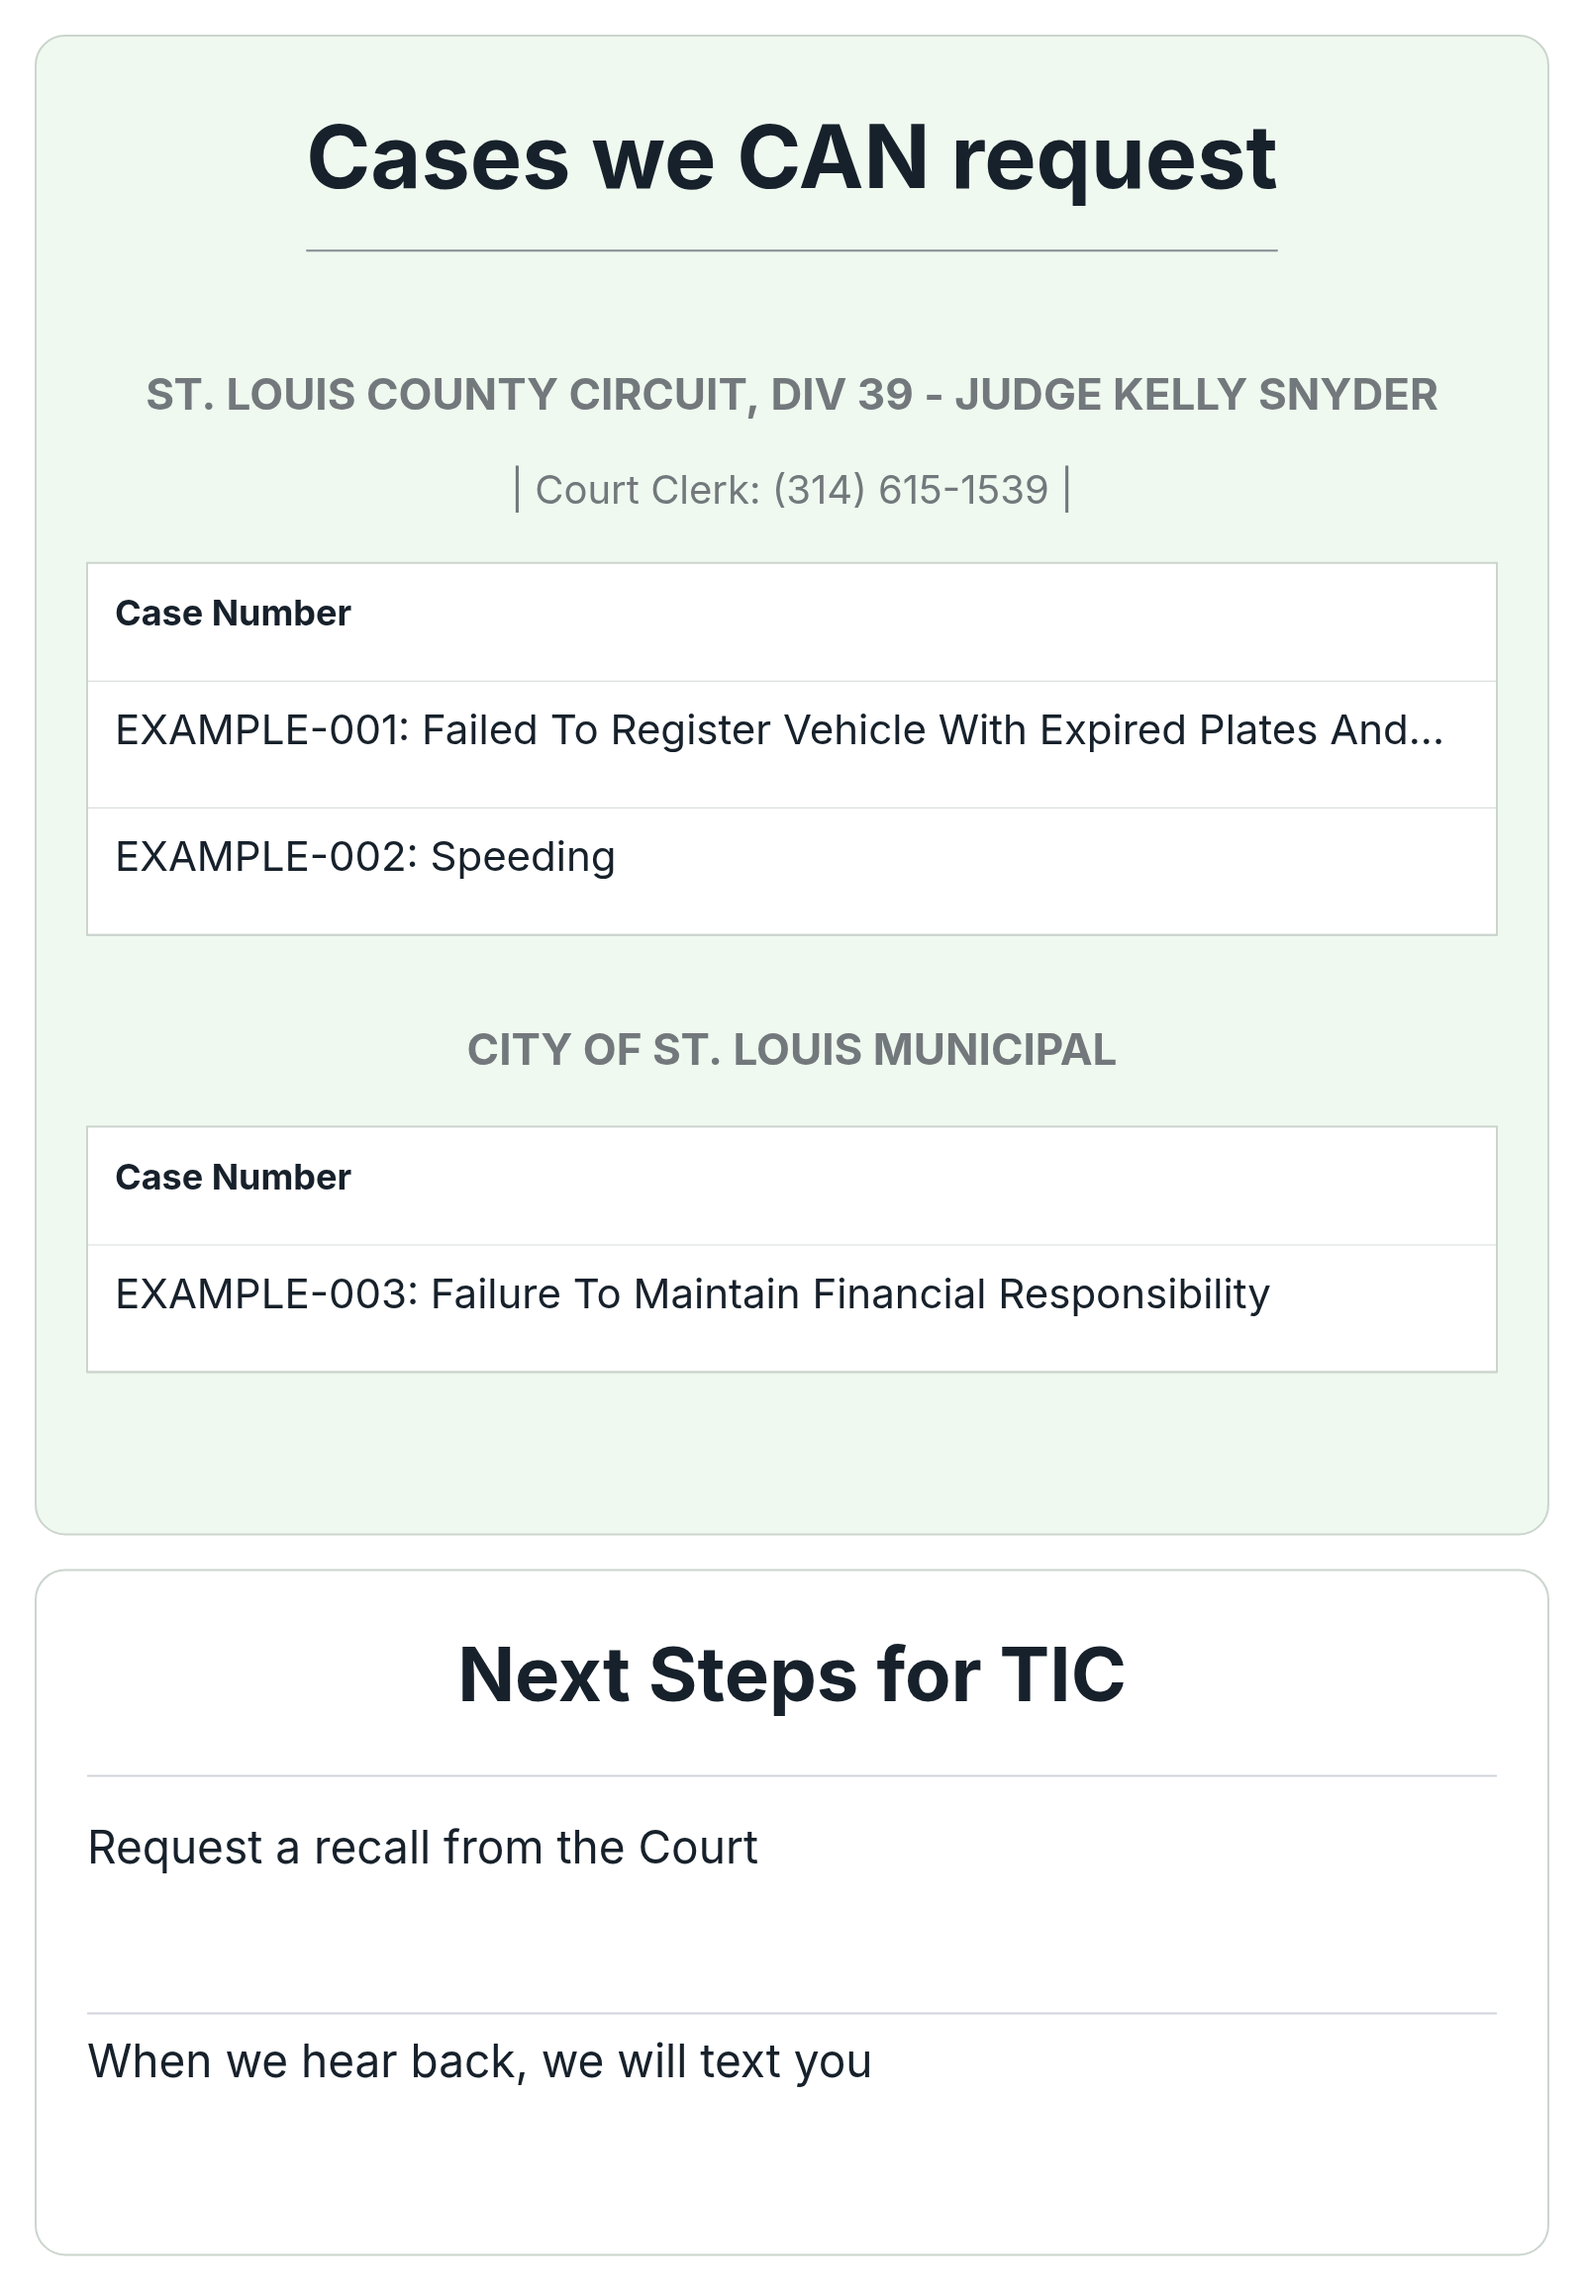
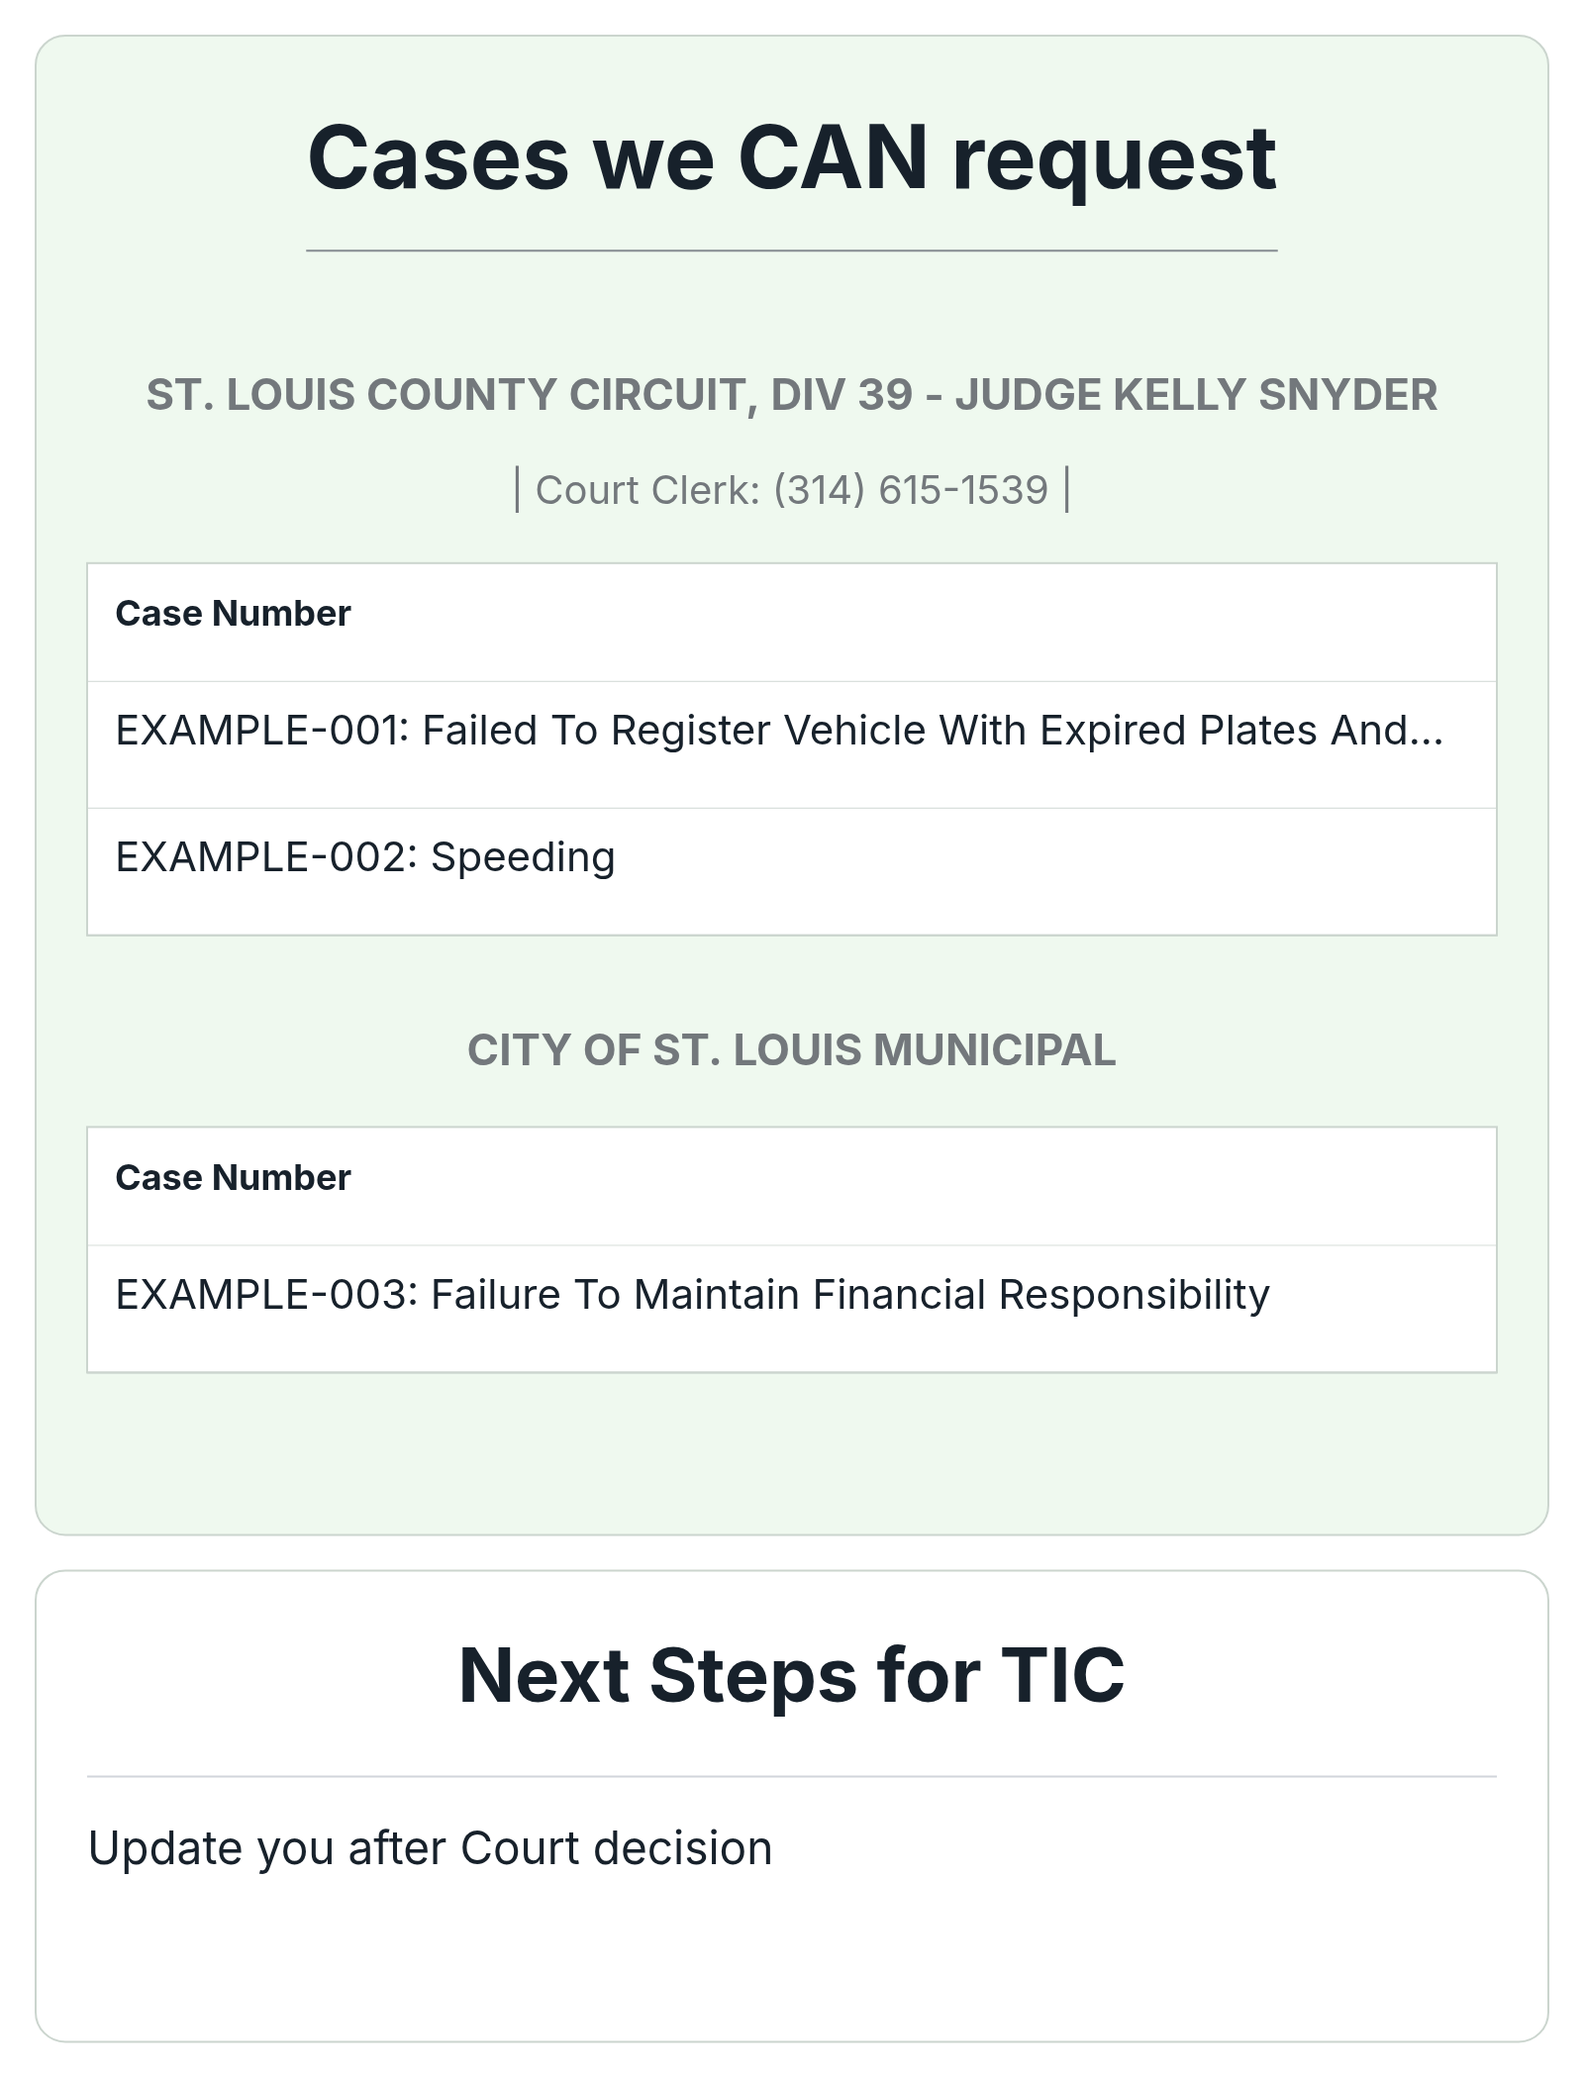
Use one editable TIC next-step default

diff --git a/src/tampermonkey/17a-constructed-infographics.js b/src/tampermonkey/17a-constructed-infographics.js
@@ -184,8 +184,7 @@ function textBuilderInfographicModel(source,measure) {
   y = model.caseBottom + 54;
   add(source.type === 'eligible' ? 'Next Steps for TIC' : 'Next Steps for You',38,true,'stepsHeading');
   if (source.type === 'eligible') {
-    add('Request a recall from the Court',23,false,'step');
-    add('When we hear back, we will text you',23,false,'step');
+    add('Update you after Court decision',23,false,'step');
   } else add('',23,false,'step');
   textBuilderInfographicReflow(model,measure);
   return model;

diff --git a/docs/constructed-infographics.md b/docs/constructed-infographics.md
@@ -36,7 +36,7 @@ In an ineligible summary, a line beginning `Upcoming Court Dates:` starts a sepa
 
 ## Editing and exporting
 
-Both images keep case content and headings read-only. “Next Steps for TIC” starts with two editable defaults: “Request a recall from the Court” and “When we hear back, we will text you.” “Next Steps for You” starts with one blank field. Type directly into a field; **Add next step** creates another blank field. Fields stay in place and expand vertically to fit their content, with faint dividers between entries. Each image has only three buttons: **Add next step**, **Copy Image**, and **Download for Email**. The latter downloads a JPEG for attaching to an email; it does not send email.
+Both images keep case content and headings read-only. “Next Steps for TIC” starts with one editable default: “Update you after Court decision.” “Next Steps for You” starts with one blank field. Type directly into a field; **Add next step** creates another blank field. Fields stay in place and expand vertically to fit their content, with faint dividers between entries. Each image has only three buttons: **Add next step**, **Copy Image**, and **Download for Email**. The latter downloads a JPEG for attaching to an email; it does not send email.
 
 **Copy Image** copies a rendered PNG through the browser's image clipboard. Browser clipboard permission may be required; errors appear below the controls. **Download for Email** downloads the edited image as a high-resolution JPEG. Entry-field placeholders and editing controls are omitted from exports. Images render locally using the bundled Inter typeface: regular for case text and next steps, bold for headings and court labels. Inter loads from embedded font bytes before layout or export; no network font request or locally installed Inter is required. If loading fails, the UI reports the error instead of generating an image with a substitute font. The preview protects Inter typography from host-page CSS so font family, size, weight, and spacing match Canvas exports.
 
